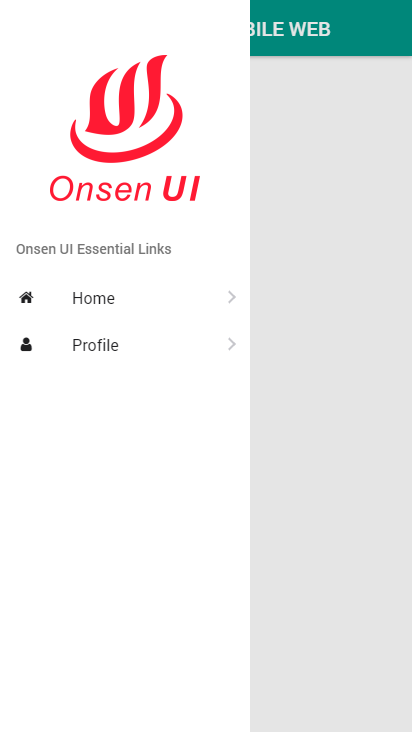
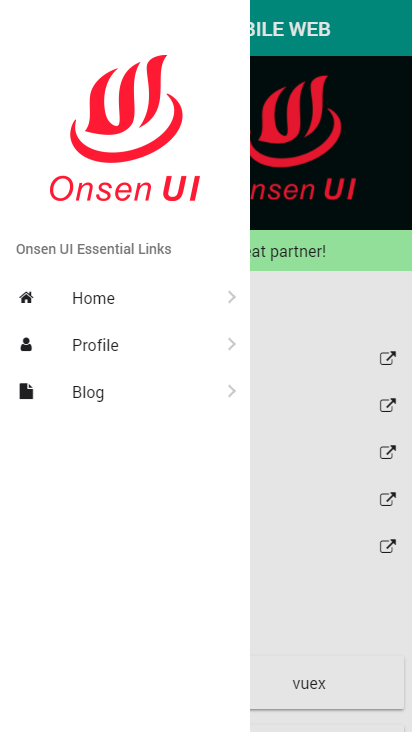
* add fetch restapi example using axios. look at services/PostService.js and pages/posts/PostsPage.vue
* update README screenshots

diff --git a/src/pages/posts/PostsPage.vue b/src/pages/posts/PostsPage.vue
@@ -1,0 +1,36 @@
+<style lang="scss" scoped src="./PostsPage.scss">
+</style>
+<template src="./PostsPage.html">
+  <div></div>
+</template>
+
+<script>
+import Navbar from '../../components/navbar/Navbar';
+import LoadingIndicator from '../../components/loading-indicator/LoadingIndicator';
+import PostService from '../../services/PostService';
+import Config from '../../config/Config';
+
+export default {
+  name: 'posts-page',
+  components: {
+    Navbar,
+    LoadingIndicator,
+  },
+  data() {
+    return {
+      config: Config,
+      isLoading: false,
+      posts: [],
+      found: 0,
+    };
+  },
+  mounted() {
+    this.isLoading = true;
+    PostService.getPosts().then((response) => {
+      this.posts = response.posts;
+      this.found = response.found;
+      this.isLoading = false;
+    });
+  },
+};
+</script>

diff --git a/src/components/loading-indicator/LoadingIndicator.vue b/src/components/loading-indicator/LoadingIndicator.vue
@@ -1,0 +1,21 @@
+<style scoped>
+.loading-wrapper{
+  text-align: center;
+}
+</style>
+
+<template>
+  <div class="loading-wrapper">
+    <svg class="progress-circular progress-circular--indeterminate">
+      <circle class="progress-circular__background"/>
+      <circle class="progress-circular__primary progress-circular--indeterminate__primary"/>
+      <circle class="progress-circular__secondary progress-circular--indeterminate__secondary"/>
+    </svg>
+  </div>
+</template>
+
+<script>
+export default {
+  name: 'loading-indicator',
+};
+</script>

diff --git a/src/main.js b/src/main.js
@@ -7,19 +7,12 @@ import Vue from 'vue';
 import VueOnsen from 'vue-onsenui';
 import VueRouter from 'vue-router';
 import App from './App';
-
-import HomePage from './pages/home/HomePage';
-import ProfilePage from './pages/profile/ProfilePage';
+import routes from './routes';
 
 Vue.config.productionTip = false;
 
 Vue.use(VueOnsen);
 Vue.use(VueRouter);
-
-const routes = [
-  { name: 'home', path: '/', component: HomePage },
-  { name: 'profile', path: '/profile', component: ProfilePage },
-];
 
 const router = new VueRouter({
   mode: 'hash',

diff --git a/src/pages/posts/PostsPage.html b/src/pages/posts/PostsPage.html
@@ -1,0 +1,15 @@
+<v-ons-page>
+  <navbar></navbar>
+  <div class="page-content">
+    <h3 class="page-title">
+      Display {{posts.length}} of {{found}} post. <br/> From {{config.BLOGURL}}
+    </h3>
+    <div v-if="isLoading">
+      <loading-indicator></loading-indicator>
+    </div>
+    <v-ons-card v-for="post in posts" :key="post.ID">
+      <div class="title">{{post.title}}</div>
+      <div class="content">{{post.excerpt}}</div>
+    </v-ons-card>
+  </div>
+</v-ons-page>

diff --git a/src/App.vue b/src/App.vue
@@ -29,6 +29,11 @@ export default {
           routeName: 'profile',
           icon: 'fa-user',
         },
+        {
+          label: 'Blog',
+          routeName: 'posts',
+          icon: 'fa-file',
+        },
       ],
     };
   },
@@ -39,7 +44,6 @@ export default {
     goTo(routeName) {
       this.$router.push({ name: routeName });
       store.commit('toggleMenu');
-      // this.menuIsOpen = false;
     },
   },
 };

diff --git a/src/store/index.js b/src/store/index.js
@@ -8,8 +8,12 @@ export default new Vuex.Store({
     menuIsOpen: false,
   },
   mutations: {
-    toggleMenu(state) {
-      state.menuIsOpen = !state.menuIsOpen;
+    toggleMenu(state, isToggle) {
+      if (typeof isToggle !== 'undefined') {
+        state.menuIsOpen = isToggle;
+      } else {
+        state.menuIsOpen = !state.menuIsOpen;
+      }
     },
   },
   actions: {},

diff --git a/src/routes.js b/src/routes.js
@@ -1,0 +1,9 @@
+import HomePage from './pages/home/HomePage';
+import ProfilePage from './pages/profile/ProfilePage';
+import PostsPage from './pages/posts/PostsPage';
+
+export default [
+  { name: 'home', path: '/', component: HomePage },
+  { name: 'profile', path: '/profile', component: ProfilePage },
+  { name: 'posts', path: '/posts', component: PostsPage },
+];

diff --git a/src/services/PostService.js b/src/services/PostService.js
@@ -1,0 +1,8 @@
+import axios from 'axios';
+import Config from '../config/Config';
+
+export default {
+  getPosts() {
+    return axios.get(Config.APIURL).then(response => response.data);
+  },
+};

diff --git a/src/config/Config.js b/src/config/Config.js
@@ -1,0 +1,6 @@
+const BLOGURL = 'lakonhidup.wordpress.com';
+
+export default {
+  BLOGURL,
+  APIURL: `https://public-api.wordpress.com/rest/v1.1/sites/${BLOGURL}/posts/`,
+};

diff --git a/src/pages/profile/ProfilePage.vue b/src/pages/profile/ProfilePage.vue
@@ -9,7 +9,7 @@
 import Navbar from '../../components/navbar/Navbar';
 
 export default {
-  name: 'profile',
+  name: 'profile-page',
   components: {
     Navbar,
   },

diff --git a/src/pages/home/HomePage.vue b/src/pages/home/HomePage.vue
@@ -9,7 +9,7 @@
 import Navbar from '../../components/navbar/Navbar';
 
 export default {
-  name: 'home',
+  name: 'home-page',
   components: {
     Navbar,
   },

diff --git a/src/pages/posts/PostsPage.scss b/src/pages/posts/PostsPage.scss
@@ -1,0 +1,3 @@
+.page-title {
+  text-align: center;
+}
